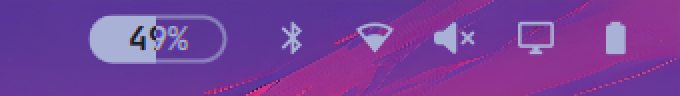
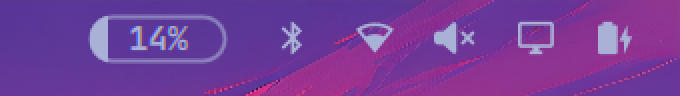
Update the README screenshot
Recapture the meter as it looks now: the 5-hour session window, which is
what it shows by default since the default changed.

Changed region(s): [[0.1544, 0.1562, 0.2471, 0.6875], [0.8647, 0.2188, 0.9265, 0.5625]]

diff --git a/README.md b/README.md
@@ -3,7 +3,7 @@
 An [Omarchy](https://omarchy.org) bar widget showing how much of your AI coding
 limit you've used: a progress meter with the percentage inside it.
 
-![The Agent Meter in the Omarchy bar, reading 49%](docs/meter.png)
+![The Agent Meter in the Omarchy bar, reading 14% of the 5-hour session window](docs/meter.png)
 
 Built on Omarchy's own **Agents** widget. Clicking still opens the same full
 panel: every limit with its reset countdown, tokens by day, and tokens by
